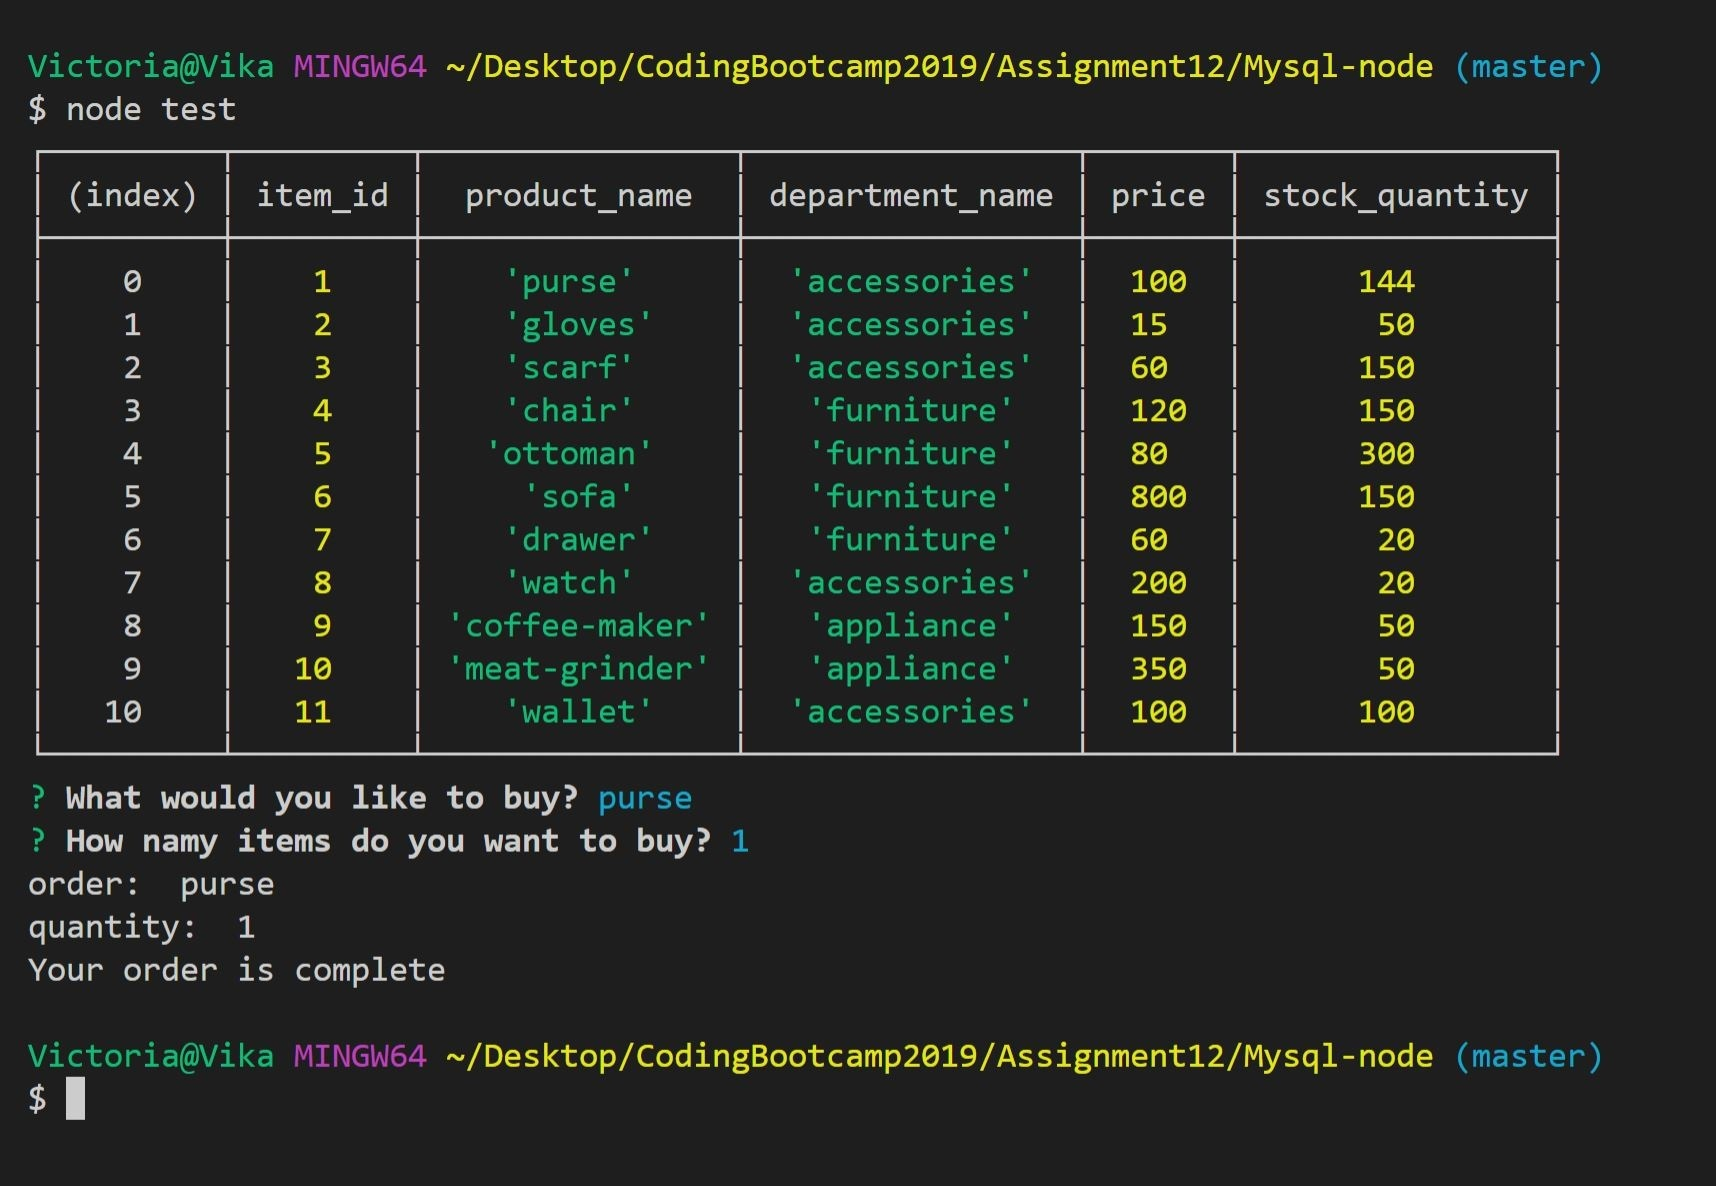
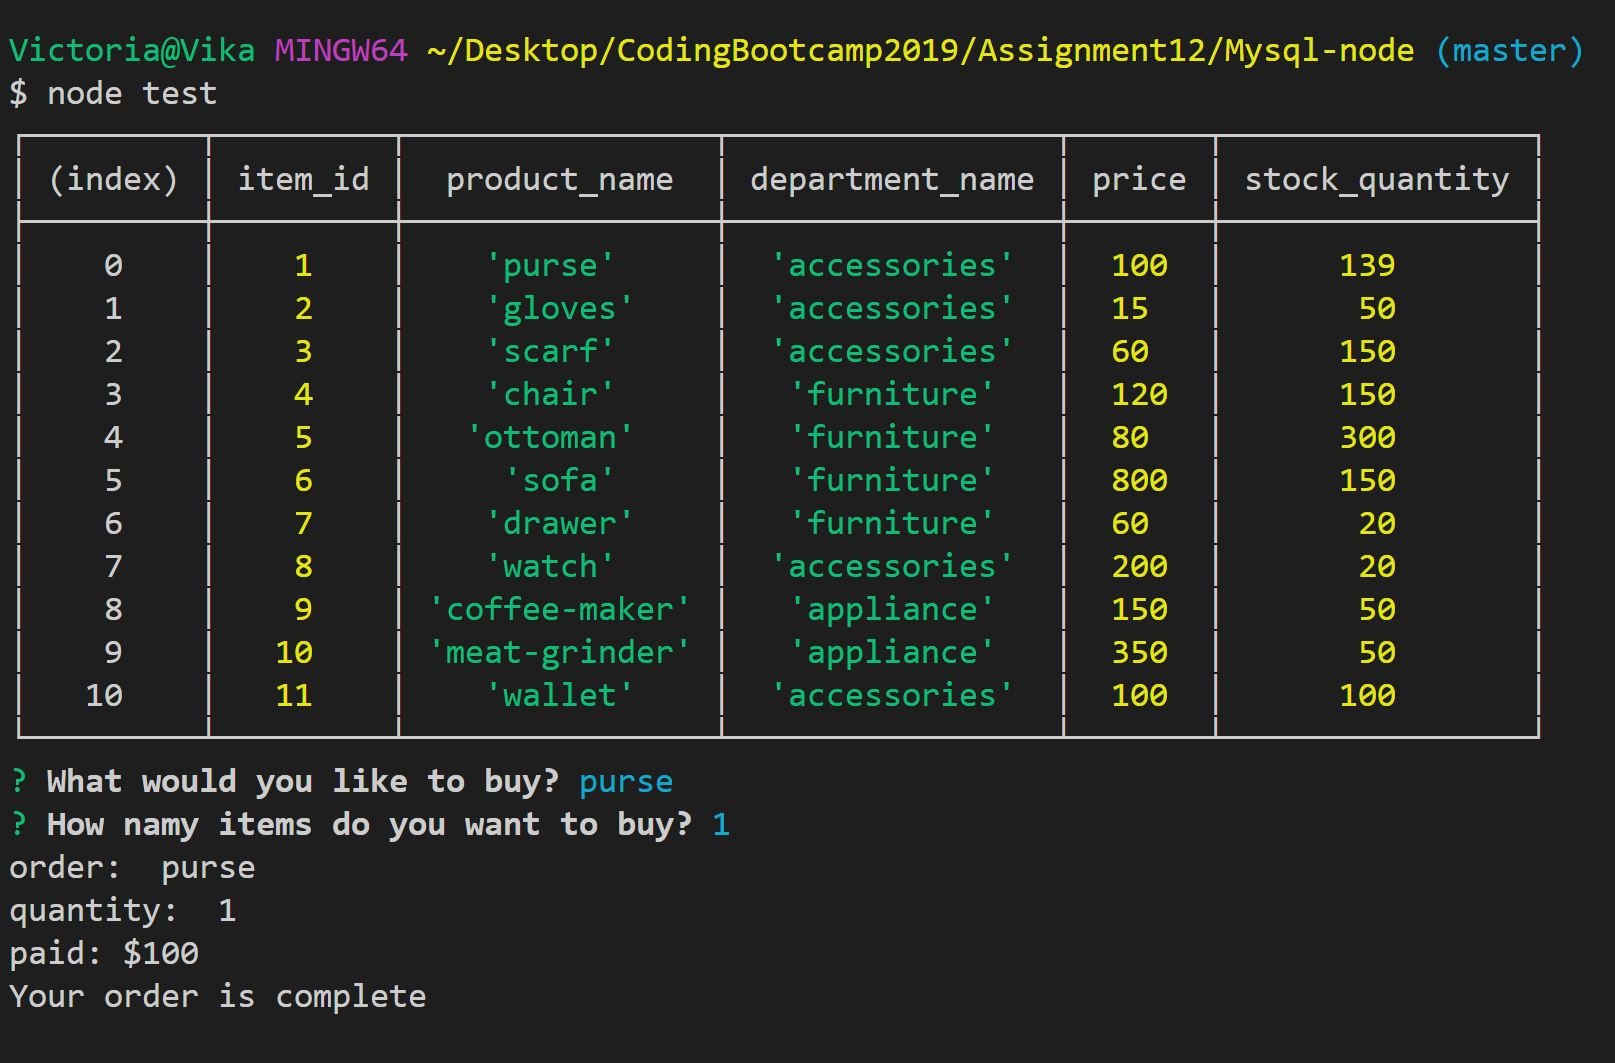
Updated ReadMe file

diff --git a/test.js b/test.js
@@ -68,6 +68,8 @@ function queryProduct (order, quantity) {
         //console.log("#5:"+JSON.stringify(res[0]));
         //console.log("#6:"+JSON.stringify(res[0]['stock_quantity']));
         stockQuantity = JSON.stringify(res[0]['stock_quantity']);
+        price = JSON.stringify(res[0]['price']);
+        //console.log(price);
         //console.log("#7:"+stockQuantity);
         checkIfEnough(order, quantity, stockQuantity);
     });
@@ -92,6 +94,7 @@ function checkIfEnough(order, quantity, stockQuantity) {
             //console.log("query"+query);
             connection.query(query, [quantity, order], function (err) {
                 if (err) throw err;
+            console.log('paid: $'+price);
             console.log("Your order is complete");
             connection.end();
             });
